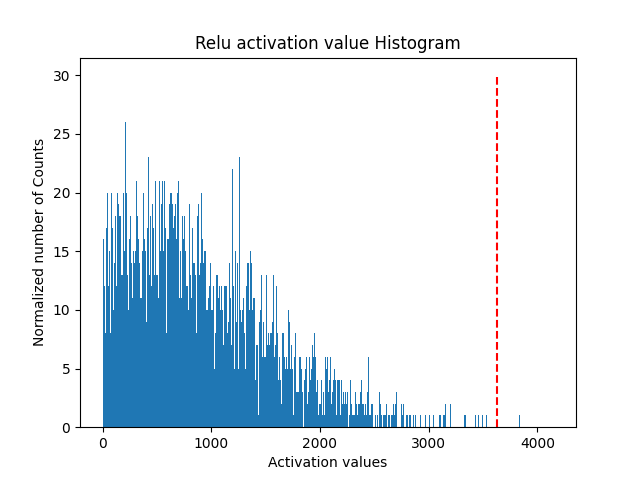
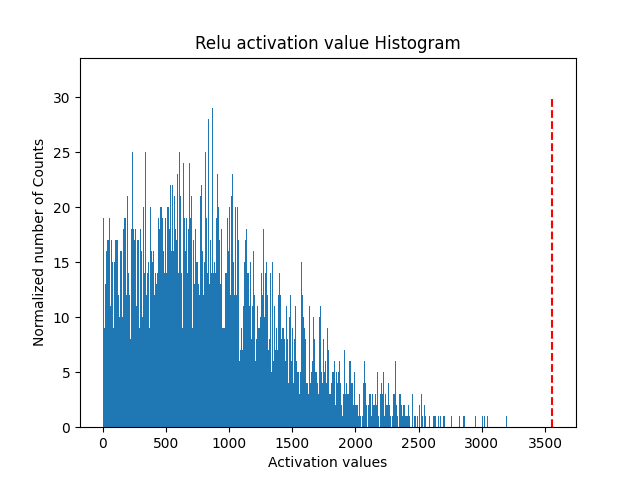
quant

diff --git a/python/quant/Kl.py b/python/quant/Kl.py
@@ -1,14 +1,19 @@
 import random
 import numpy as np
-import matplotlib.pyplot as plt 
+import matplotlib.pyplot as plt  
+import copy
+import scipy.stats as stats
+
+# 随机生成测试数据
 def generator_P(size):
     walk = []
     avg = random.uniform(3.000, 600.999)
     std = random.uniform(500.000, 1024.959)
     for _ in range(size):
-        walk.append(random.gauss(avg, std)) 
+        walk.append(random.gauss(avg, std)) # 生成符合高斯分布的随机数
     return walk
 
+# 平滑p和q，防止出现nan值，因为KL散度会计算log(p/q), 当q为0值时会出现nan
 def smooth_distribution(p, eps=0.0001):
     is_zeros = (p == 0).astype(np.float32)
     is_nonzeros = (p != 0).astype(np.float32)
@@ -22,78 +27,105 @@ def smooth_distribution(p, eps=0.0001):
     hist += eps * is_zeros + (-eps1) * is_nonzeros
     assert (hist <= 0).sum() == 0
     return hist
- 
-import copy
-import scipy.stats as stats
-def threshold_distribution(distribution, target_bin=128):
+
+def threshold_distribution(distribution, target_bin = 128):
     distribution = distribution[1:]
-    length = distribution.size
-    threshold_sum = sum(distribution[target_bin:])
-    kl_divergence = np.zeros(length - target_bin)
+    length = distribution.size # 2047
+    threshold_sum = sum(distribution[target_bin:]) # [128: ]
+    kl_divergence = np.zeros(length - target_bin) # 初始化 2047 - 128 = 1919 个KL散度值
     
-    for threshold in range(target_bin, length):
-        sliced_nd_hist = copy.deepcopy(distribution[:threshold])
+    for threshold in range(target_bin, length): # 遍历threshold寻找KL散度最低的阈值
+        sliced_nd_hist = copy.deepcopy(distribution[:threshold]) # [0, threshold）内的作为P
+        p = sliced_nd_hist.copy() # 生成p
 
-        # generate reference distribution p
-        p = sliced_nd_hist.copy()
-        p[threshold - 1] += threshold_sum
-        threshold_sum = threshold_sum - distribution[threshold]
+        p[threshold - 1] += threshold_sum # 把 [threshold:] 后的累加和加到 p[threshold - 1] 中
+        threshold_sum = threshold_sum - distribution[threshold] # 更新下一轮的累加和，即上一轮的累加和减去即将移入P分布的区间数据
 
-        # is_nonzeros[k] indicates whether hist[k] is nonzero
-        is_nonzeros = (p != 0).astype(np.int64)
+        is_nonzeros = (p != 0).astype(np.int64) # [0:threshold]内不为0的区间
         
-        quantized_bins = np.zeros(target_bin, dtype=np.int64)
-        # calculate how many bins should be merged to generate 
-        # quantized distribution q
-        num_merged_bins = sliced_nd_hist.size // target_bin
+        quantized_bins = np.zeros(target_bin, dtype = np.int64) # 初始化量化后的bins
+        num_merged_bins = sliced_nd_hist.size // target_bin # 计算多少个区间需要合并来计算平均值，例如最初有8个bins，需要合并到4个bins，则每两个bins需要进行合并
 
-        # merge hist into num_quantized_bins bins
-        for j in range(target_bin):
-            start = j * num_merged_bins
-            stop = start + num_merged_bins
-            quantized_bins[j] = sliced_nd_hist[start:stop].sum()
+        # 合并bins
+        for j in range(target_bin): 
+            start = j * num_merged_bins # 合并开始的bins
+            stop = start + num_merged_bins # 合并结束的bins
+            quantized_bins[j] = sliced_nd_hist[start:stop].sum() # 计算区间内bins的总和
         quantized_bins[-1] += sliced_nd_hist[target_bin * num_merged_bins:].sum()
 
-        # expand quantized_bins into p.size bins
-        q = np.zeros(sliced_nd_hist.size, dtype=np.float64)
+        # 计算q
+        q = np.zeros(sliced_nd_hist.size, dtype = np.float64) # 初始化量化后的q
         for j in range(target_bin):
             start = j * num_merged_bins
             if j == target_bin - 1:
                 stop = -1
             else:
-                stop = start + num_merged_bins
-            norm = is_nonzeros[start:stop].sum()
+                stop = start + num_merged_bins # 每num_merged_bins个bins进行合并组成q
+            norm = is_nonzeros[start:stop].sum() # 看看合并区间里，不为0的区间个数
             if norm != 0:
-                q[start:stop] = float(quantized_bins[j]) / float(norm)
+                q[start:stop] = float(quantized_bins[j]) / float(norm) # 用均值（假如区间内都不为0）填充q
         
+        # 平滑p和q
         p = smooth_distribution(p)
         q = smooth_distribution(q)
-
-        # calculate kl_divergence between q and p
+        # 计算p和q之间的KL散度
         kl_divergence[threshold - target_bin] = stats.entropy(p, q)
 
+    # 寻找最小KL散度对应threshold的索引
     min_kl_divergence = np.argmin(kl_divergence)
-    threshold_value = min_kl_divergence + target_bin
+    threshold_value = min_kl_divergence + target_bin # 计算真正的threshold, 基于最初的128, 因为一开始就是从128开始不断向外计算来扩大P的范围
 
     return threshold_value
 
-if __name__ == '__main__':
- 
-    size = 20480
-    P = generator_P(size)
-    P = np.array(P)
-    P = P[P>0]
-    print("最大的激活值", max(np.absolute(P)))
+def de_quantize(data,th_T):
+    data = np.array(data)
+    scales=th_T/127
+    zero_points = 0
+    quantized_values = np.clip(np.round(data / scales + zero_points), -127, 127)
+    dequantized_values = scales * (quantized_values - zero_points)
+    return scales, zero_points, quantized_values, dequantized_values
+    
 
-    hist, bins = np.histogram(P, bins =2048)  
-    threshold = threshold_distribution(hist, target_bin=128)
-    print("threshold 所在组:", threshold)
-    print("threshold 所在组的区间范围:", bins[threshold])
-    # 分成split_zie组, density表示是否要normed
+
+if __name__ == '__main__':
+    # 随机初始化测试数据
+    size = 20480 
+    P = generator_P(size) 
+    P = np.array(P)
+    P = P[P > 0] # 保留大于0的数
+    # print("maximum activation value", max(np.absolute(P))) # 最大的激活值
+    P = np.append(P, 1000)
+
+    hist, bin_edges = np.histogram(P, bins = 2048) # 生成直方图 hist表示每一个bins对应的数量, bins表示截止 
+    print("hist: ", hist)
+    print("bin_edges: ", bin_edges)
+    print("max:",np.max(P))
+    print("min:",np.min(P))
+    threshold = threshold_distribution(hist, target_bin = 128) # 返回KL散度最小的划分bins
+    print("threshold: ", threshold)
+    print("threshold edges:", bin_edges[threshold]) # 截止到threshold对应的bins, 能够表示的范围 bin_edges[-1]表示上面最大的激活值，即能够表示所有数
+
+    # 计算scale
+    # scale = bin_edges[threshold] / int_max # 即bin_edges[threshold] / 127 
+    # 在最初的对称量化中，我们是用绝对值最大的数值作为bin_edges[threhold], 而TensorRT就是利用KL散度来评估最佳的bin_edges[threshold]
+
+    # 做量化，计算scales、zero_points、quantized_values并且进行反量化，比较反量化后的值和原始值的误差
+    scales, zero_points, quantized_values,dequantized_values = de_quantize(P, bin_edges[threshold])
+
+    # 计算dequantized_values和原始值的误差,mse,cos,psnr
+    # 引入scipy计算mse
+    mse=np.mean(np.square(P-dequantized_values))
+    cos = np.dot(P, dequantized_values) / (np.linalg.norm(P) * np.linalg.norm(dequantized_values))
+    snr=10*np.log10(np.sum(np.square(P))/mse)
+    print("mse: ", mse)
+    print("cos: ", cos)
+    print("snr: ", snr)
+
+    # 分成 split_zie 组, density表示是否要normed
     plt.title("Relu activation value Histogram")
     plt.xlabel("Activation values")
     plt.ylabel("Normalized number of Counts")
     plt.hist(P, bins=2047)
-    plt.vlines(bins[threshold], 0, 30, colors = "r", linestyles = "dashed")
+    plt.vlines(bin_edges[threshold], 0, 30, colors = "r", linestyles = "dashed") # 红线向左就是能够表示的所有范围
     plt.show()
     plt.savefig("test.png")

diff --git a/python/quant/new_kl.py b/python/quant/new_kl.py
@@ -1,0 +1,95 @@
+import numpy as np
+from collections import Counter
+from scipy.stats import entropy
+
+def _compute_amax_entropy(calib_hist, calib_bin_edges, num_bits, unsigned, stride=1, start_bin=128):
+    # 返回使收集的直方图的KL散度最小化的amax
+    """Returns amax that minimizes KL-Divergence of the collected histogram"""
+
+    # If calibrator hasn't collected any data, return none
+    if calib_bin_edges is None and calib_hist is None:
+        return None
+
+    def _normalize_distr(distr):
+        summ = np.sum(distr)
+        if summ != 0:
+            distr = distr / summ
+
+    bins = calib_hist[:]
+    bins[0] = bins[1]
+
+    total_data = np.sum(bins)
+
+    divergences = []
+    arguments = []
+
+    # we are quantizing to 128 values + sign if num_bits=8
+    nbins = 1 << (num_bits - 1 + int(unsigned)) # 对称量化 nbins=128
+
+    starting = start_bin
+    stop = len(bins) # 4028
+
+    new_density_counts = np.zeros(nbins, dtype=np.float64)
+
+    #首次遍历 i=128
+    for i in range(starting, stop + 1, stride):
+        new_density_counts.fill(0) 
+        # 这里是先进行量化，再计算数据分布Q,耗时比较大
+        # 把bin[0],...,bin[i-1]量化为128个bin
+        space = np.linspace(0, i, num=nbins + 1)
+        # numpy.digitize(array_x, bins, right=False)：返回array中每一个值在bins中所属的位置
+        # 记录量化前的i在量化后的位置
+        digitized_space = np.digitize(range(i), space) - 1
+        digitized_space[bins[:i] == 0] = -1 # 直方图值为0 对应 digitized_space 值取-1
+
+        # 计算量化后的数据分布Q
+        for idx, digitized in enumerate(digitized_space):
+            if digitized != -1:
+                # 将直方图柱子不为0依次累加
+                new_density_counts[digitized] += bins[idx]
+
+        counter = Counter(digitized_space) # Counter：统计可迭代序列中每个元素出现次数
+        for key, val in counter.items():
+            if key != -1:
+                # 计算分布Q:new_density_counts
+                new_density_counts[key] = new_density_counts[key] / val
+
+        new_density = np.zeros(i, dtype=np.float64)
+        # 剔除直方图值为0的
+        for idx, digitized in enumerate(digitized_space):
+            if digitized != -1:
+                new_density[idx] = new_density_counts[digitized]
+
+        total_counts_new = np.sum(new_density) + np.sum(bins[i:])
+        # 归一化
+        _normalize_distr(new_density)
+
+        # 取前i个bin
+        reference_density = np.array(bins[:len(digitized_space)])
+        # 选择从第i个bin截断，i后面的bin加到i-1 上，得到一个基本没有损失的直方图P_clip
+        # reference_density 代表原始float数据截断后的分布情况
+        reference_density[-1] += np.sum(bins[i:])
+
+        total_counts_old = np.sum(reference_density)
+        if round(total_counts_new) != total_data or round(total_counts_old) != total_data:
+            raise RuntimeError("Count mismatch! total_counts_new={}, total_counts_old={}, total_data={}".format(
+                total_counts_new, total_counts_old, total_data))
+
+        _normalize_distr(reference_density)
+        # 计算KL散度，散度越小代表分布越相似
+        ent = entropy(reference_density, new_density)
+        divergences.append(ent)
+        arguments.append(i)
+
+    divergences = np.array(divergences)
+    last_argmin = len(divergences) - 1 - np.argmin(divergences[::-1])
+    # calib_amax代表截断float的最大值，在此处截断，量化效果最好
+    calib_amax = calib_bin_edges[last_argmin * stride + starting]
+    
+    return calib_amax
+
+# 定义量化函数和反量化函数,需要基于上面的_compute_amax_entropy函数
+
+
+if __name__ == '__main__':
+    pass
